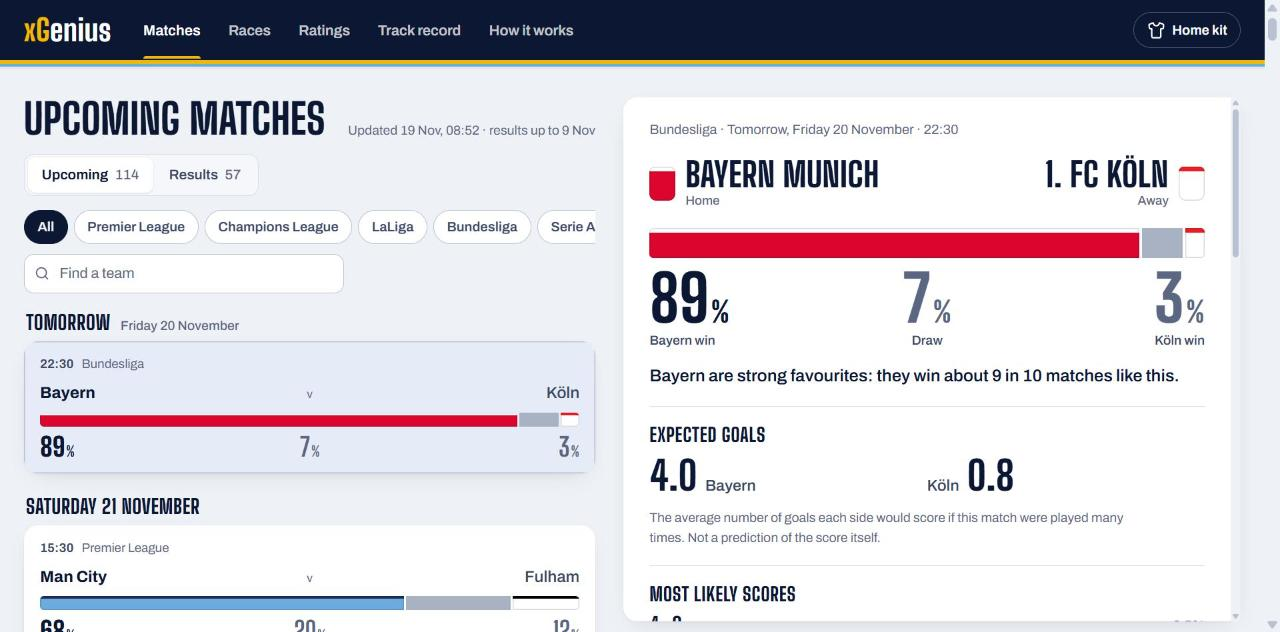
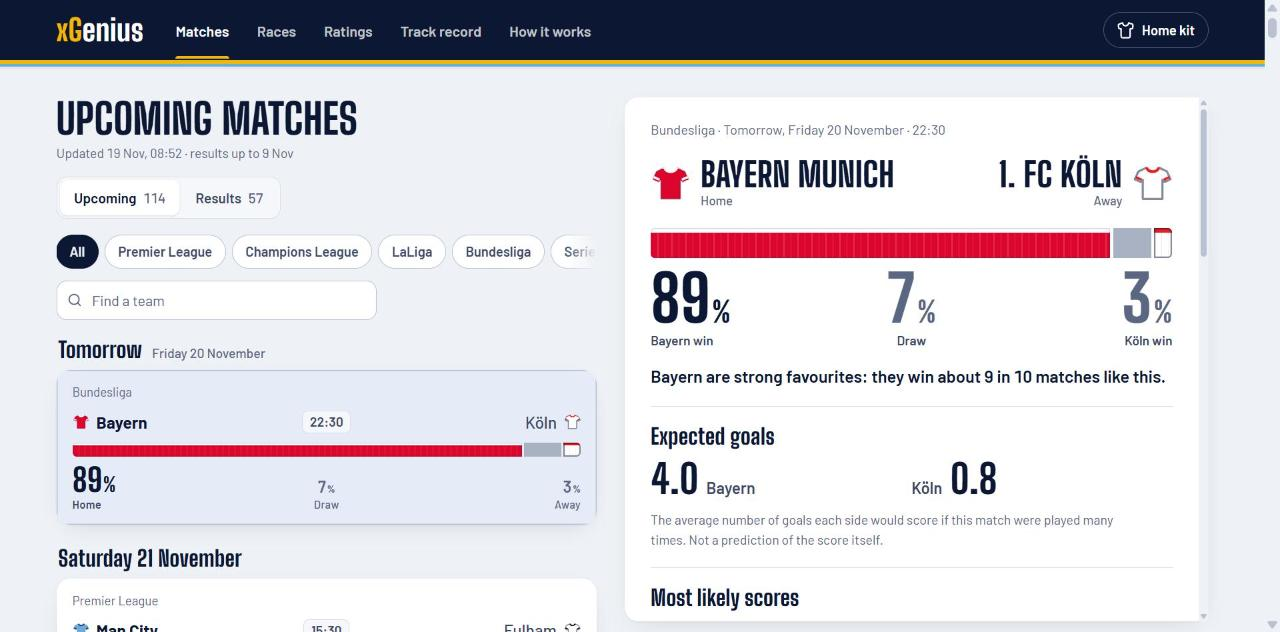
docs: design system and homepage screenshot for the polished UI

diff --git a/DESIGN.md b/DESIGN.md
@@ -28,35 +28,35 @@ colors:
   miss-home: "#B3261E"
 typography:
   numerals:
-    fontFamily: "Big Shoulders Display Variable, Arial Narrow, sans-serif"
-    fontSize: "26px"
-    fontWeight: 700
+    fontFamily: "Big Shoulders Display, Arial Narrow, sans-serif"
+    fontSize: "32px"
+    fontWeight: 800
     lineHeight: 1
     letterSpacing: "0em"
   numerals-hero:
-    fontFamily: "Big Shoulders Display Variable, Arial Narrow, sans-serif"
+    fontFamily: "Big Shoulders Display, Arial Narrow, sans-serif"
     fontSize: "clamp(44px, 6vw, 64px)"
     fontWeight: 800
     lineHeight: 0.95
   heading:
-    fontFamily: "Big Shoulders Display Variable, Arial Narrow, sans-serif"
+    fontFamily: "Big Shoulders Display, Arial Narrow, sans-serif"
     fontSize: "clamp(30px, 4.2vw, 42px)"
     fontWeight: 800
     lineHeight: 1
     letterSpacing: "0.005em"
   section:
-    fontFamily: "Big Shoulders Display Variable, Arial Narrow, sans-serif"
-    fontSize: "19px"
+    fontFamily: "Big Shoulders Display, Arial Narrow, sans-serif"
+    fontSize: "22px"
     fontWeight: 800
     lineHeight: 1.1
-    letterSpacing: "0.03em"
+    letterSpacing: "0.01em"
   body:
-    fontFamily: "Archivo Variable, system-ui, sans-serif"
-    fontSize: "15.5px"
+    fontFamily: "Barlow, Arial, sans-serif"
+    fontSize: "16px"
     fontWeight: 400
     lineHeight: 1.5
   label:
-    fontFamily: "Archivo Variable, system-ui, sans-serif"
+    fontFamily: "Barlow, Arial, sans-serif"
     fontSize: "12.5px"
     fontWeight: 600
     lineHeight: 1.3
@@ -119,14 +119,17 @@ Cool shirt-white ground `#EEF1F5` with white surfaces (home kit); deep navy grou
 
 ## Typography
 
-Big Shoulders Display (self-hosted, variable) is the squad-number voice: every probability, score, rank and page/section heading (uppercase, slight tracking). Archivo (self-hosted, variable) carries all reading text and controls. Tabular numerals everywhere.
+Big Shoulders Display is the squad-number voice: page titles (uppercase), section titles (normal case), and stand-alone hero numbers (the favourite's percentage, scores, expected goals, race projections). Its digits are proportional, so it never sets a column. Barlow carries all reading text, controls and every number that sits in a column, with tabular figures (`tnum`), so ranks, counts and percentages align. Both are self-hosted from `web/public/fonts/`, the above-the-fold faces are preloaded, and metric-matched fallbacks (size-adjust, ascent/descent overrides) keep the swap from shifting layout.
 
 ### Hierarchy
-Page heading 30–42px · detail percentages 44–64px · row percentages 26px · section headings 19–24px · body 15.5px · labels 12.5–13.5px.
+Page title 30–42px caps · section title 22–27px · detail percentages 44–64px · card hero percentage 32px (the other two 16px, softened) · body 16px · labels 11–13.5px.
+
+### Named Rules
+**The Hero Number Rule.** On a fixture card only the most likely outcome is set large; the other two step back in size and colour.
 
 ## Layout
 
-Fixed-scale fixture rows (132px min) on one baseline so a matchday compares at a glance; hairline rules between rows inside one rounded group per day. Breakpoints: < 720px single column, tabs wrap under the wordmark, match detail is its own screen; 720–1079px two-column rows; ≥ 1080px master–detail (list left, sticky detail pane right). Results use the full width (2–3 columns). Max content width 1320px; reading pages 760–980px.
+One page width (1200px) for header, content and footer on every page. Fixed-scale fixture rows (146px min) on one baseline so a matchday compares at a glance; hairline rules between rows inside one rounded group per day. Breakpoints: < 720px single column, tabs wrap under the wordmark, match detail is its own screen; 720–1079px two-column rows; ≥ 1080px master–detail (list left, sticky detail pane right). Results use the full width (2–3 columns). Max content width 1320px; reading pages 760–980px.
 
 ## Elevation & Depth
 
@@ -141,8 +144,20 @@ Card radius 14px; controls 10px; filter chips and the kit toggle are pills; kit 
 ### Kit bar (signature)
 Three flex panels (home / draw / away) whose `flex-grow` is the probability. Club panels: main colour with a 3px (5px large) trim band in the second colour along the top, like a collar; draw panel is the neutral draw grey. On first view panels open from an even three-way split to the forecast (900ms, expo-out); instant under reduced motion. Always paired with the three numbers and an aria-label.
 
+### Shirt icon
+Each club is identified by a small shirt drawn in its colours (body in the main colour, collar and cuffs in the trim); light shirts get a darker outline.
+
 ### Fixture row
-Time · competition/stage · optional "Low data" tag; home name, "v", away name (favourite in heavier ink); kit bar; three squad-number percentages aligned home-left / draw-centre / away-right with the favourite in full ink.
+Competition/stage and tags; home shirt + name, kickoff time centred in a small chip, away name + shirt (favourite in heavier ink); kit bar; the three percentages with labels, the favourite's as the hero. Hover stretches the kit bar slightly; press squashes the row (scale 0.985) and it springs back; both are off under reduced motion.
+
+### Kit bar texture
+Club panels carry the collar-trim band and a faint pinstripe in the trim colour (16%, 7% on light shirts); light shirts (luminance > 0.6) get a firm 1.5px outline in both themes.
+
+### Race bar
+Solid = so far, lighter = projected rest of season with the projected total at its end, thin whisker under the bar = likely range. A legend sits above the tables.
+
+### Filter chips
+One scrollable row; only the edge with more content beyond it fades.
 
 ### Result row
 As fixture row with the 90-minute score in place of "v" and a verdict line: check/cross icon, "Called it" / "Missed", and the chance we gave what happened. Back-filled forecasts carry a "Replay" tag.
